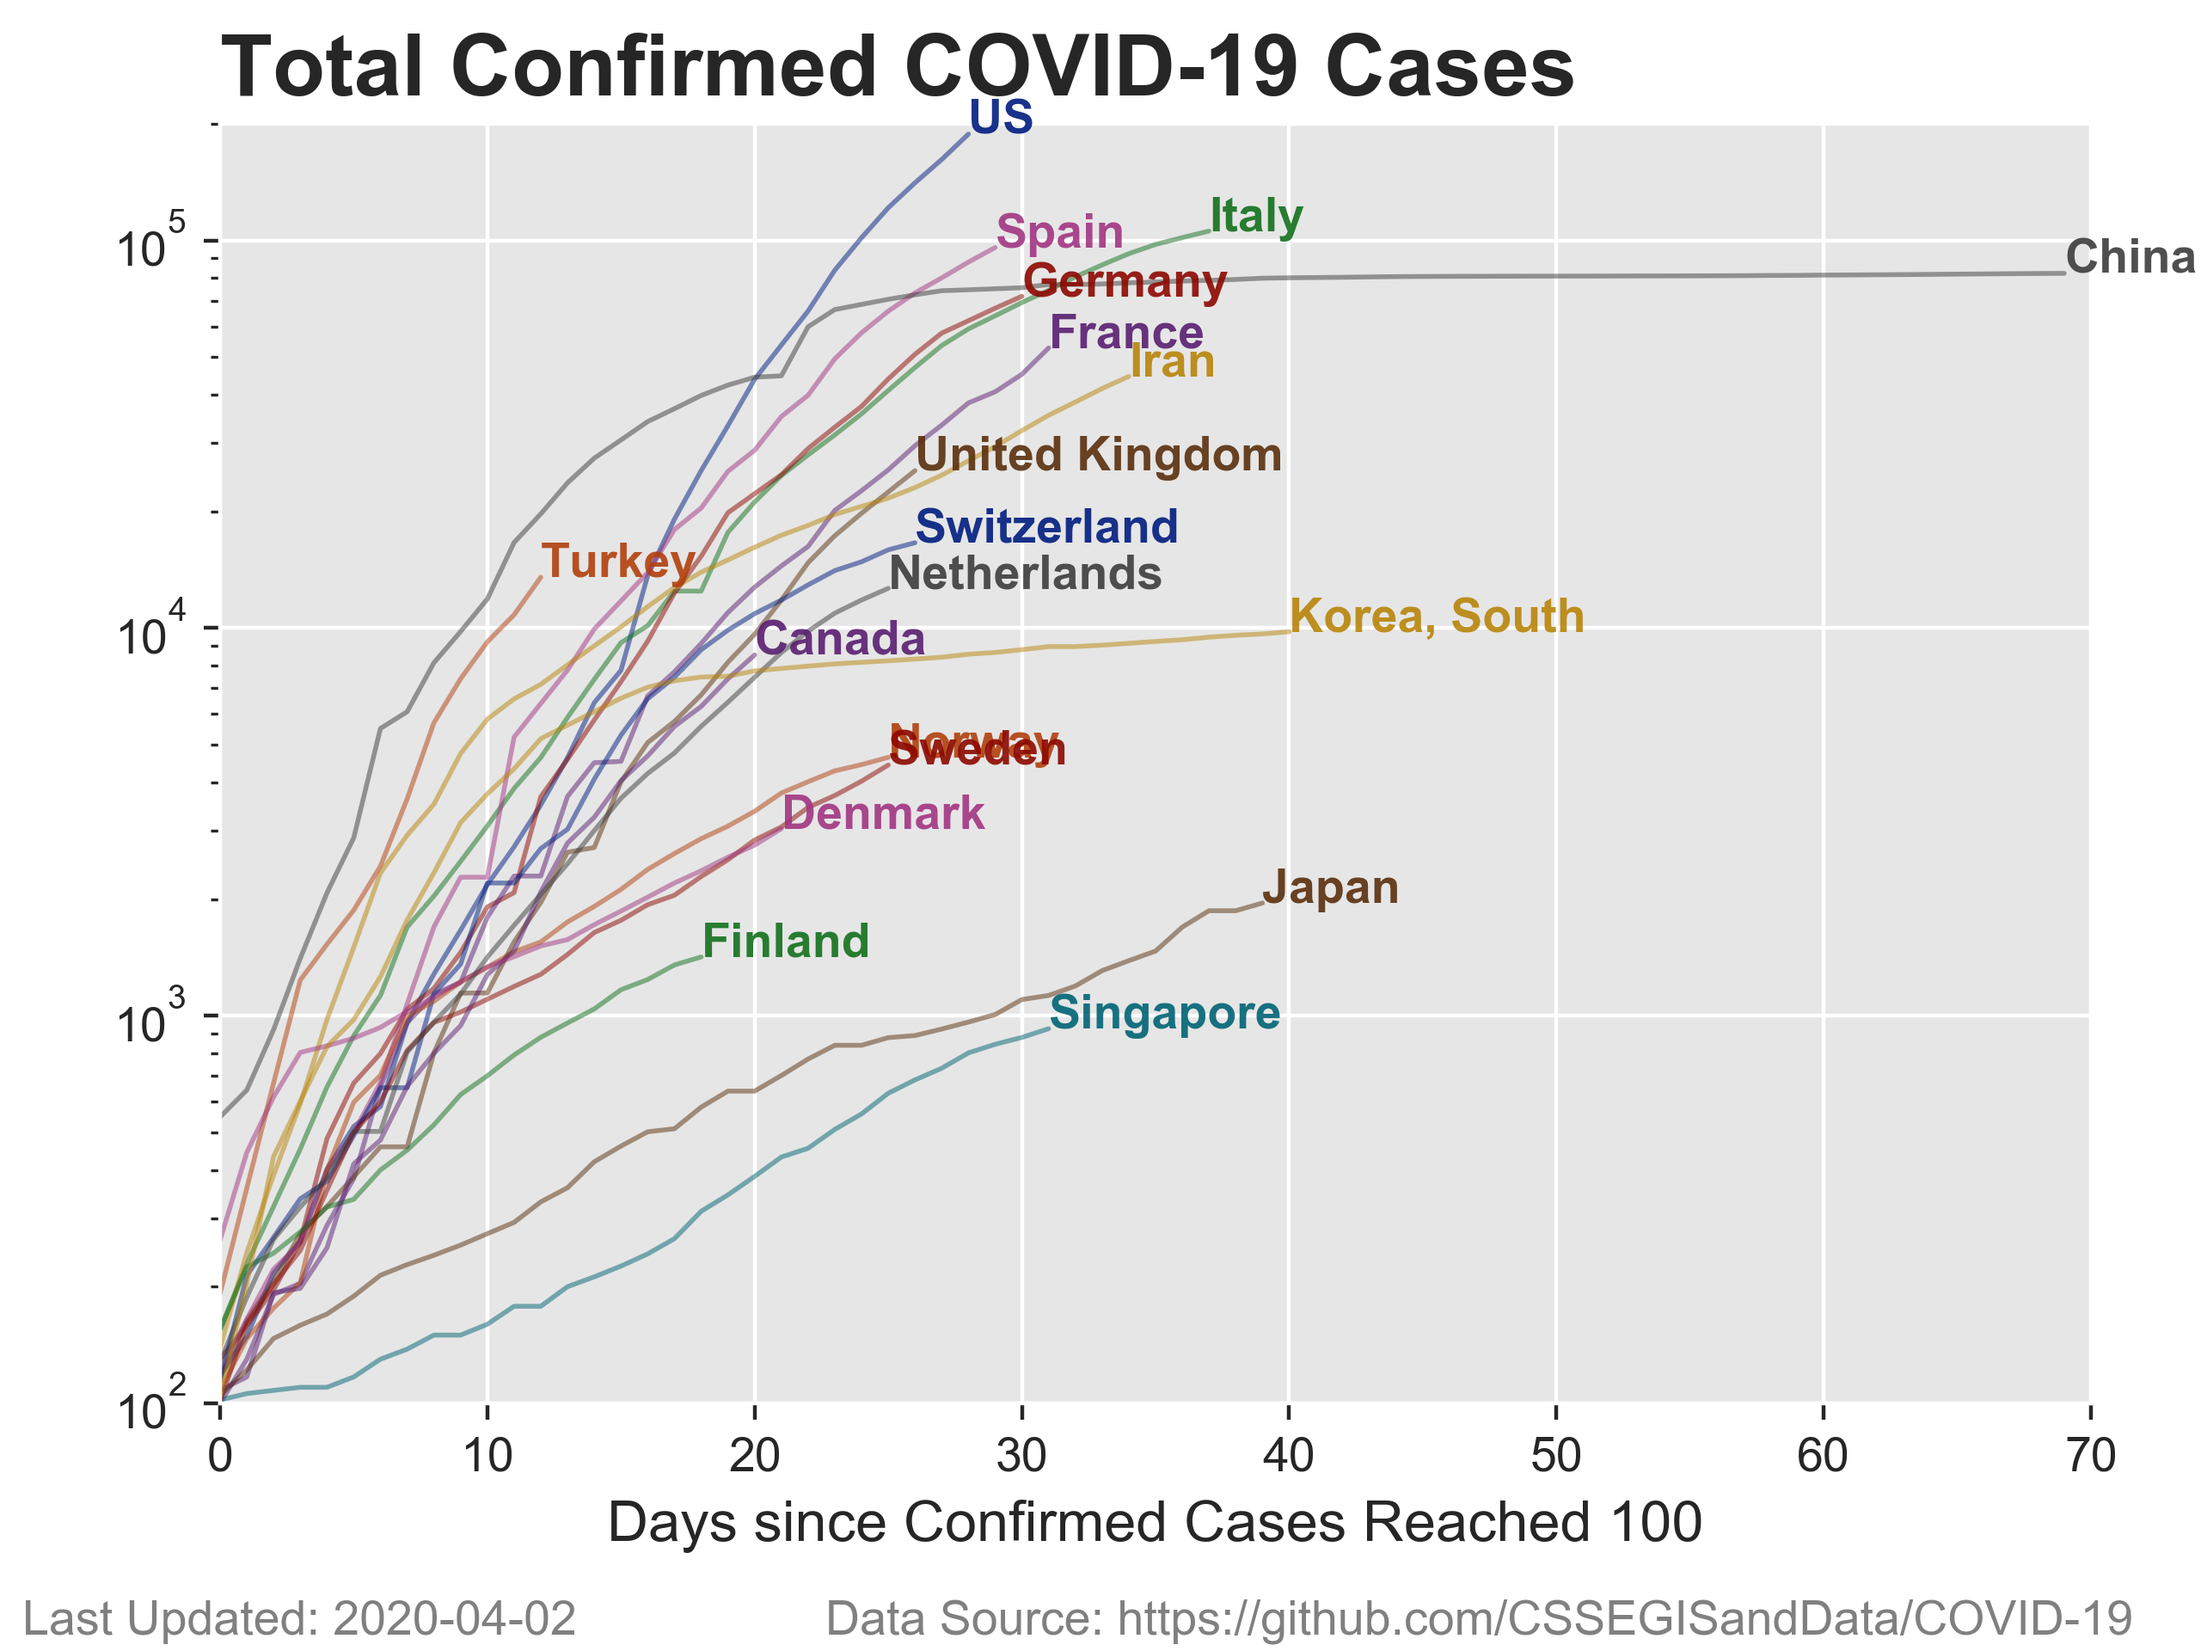
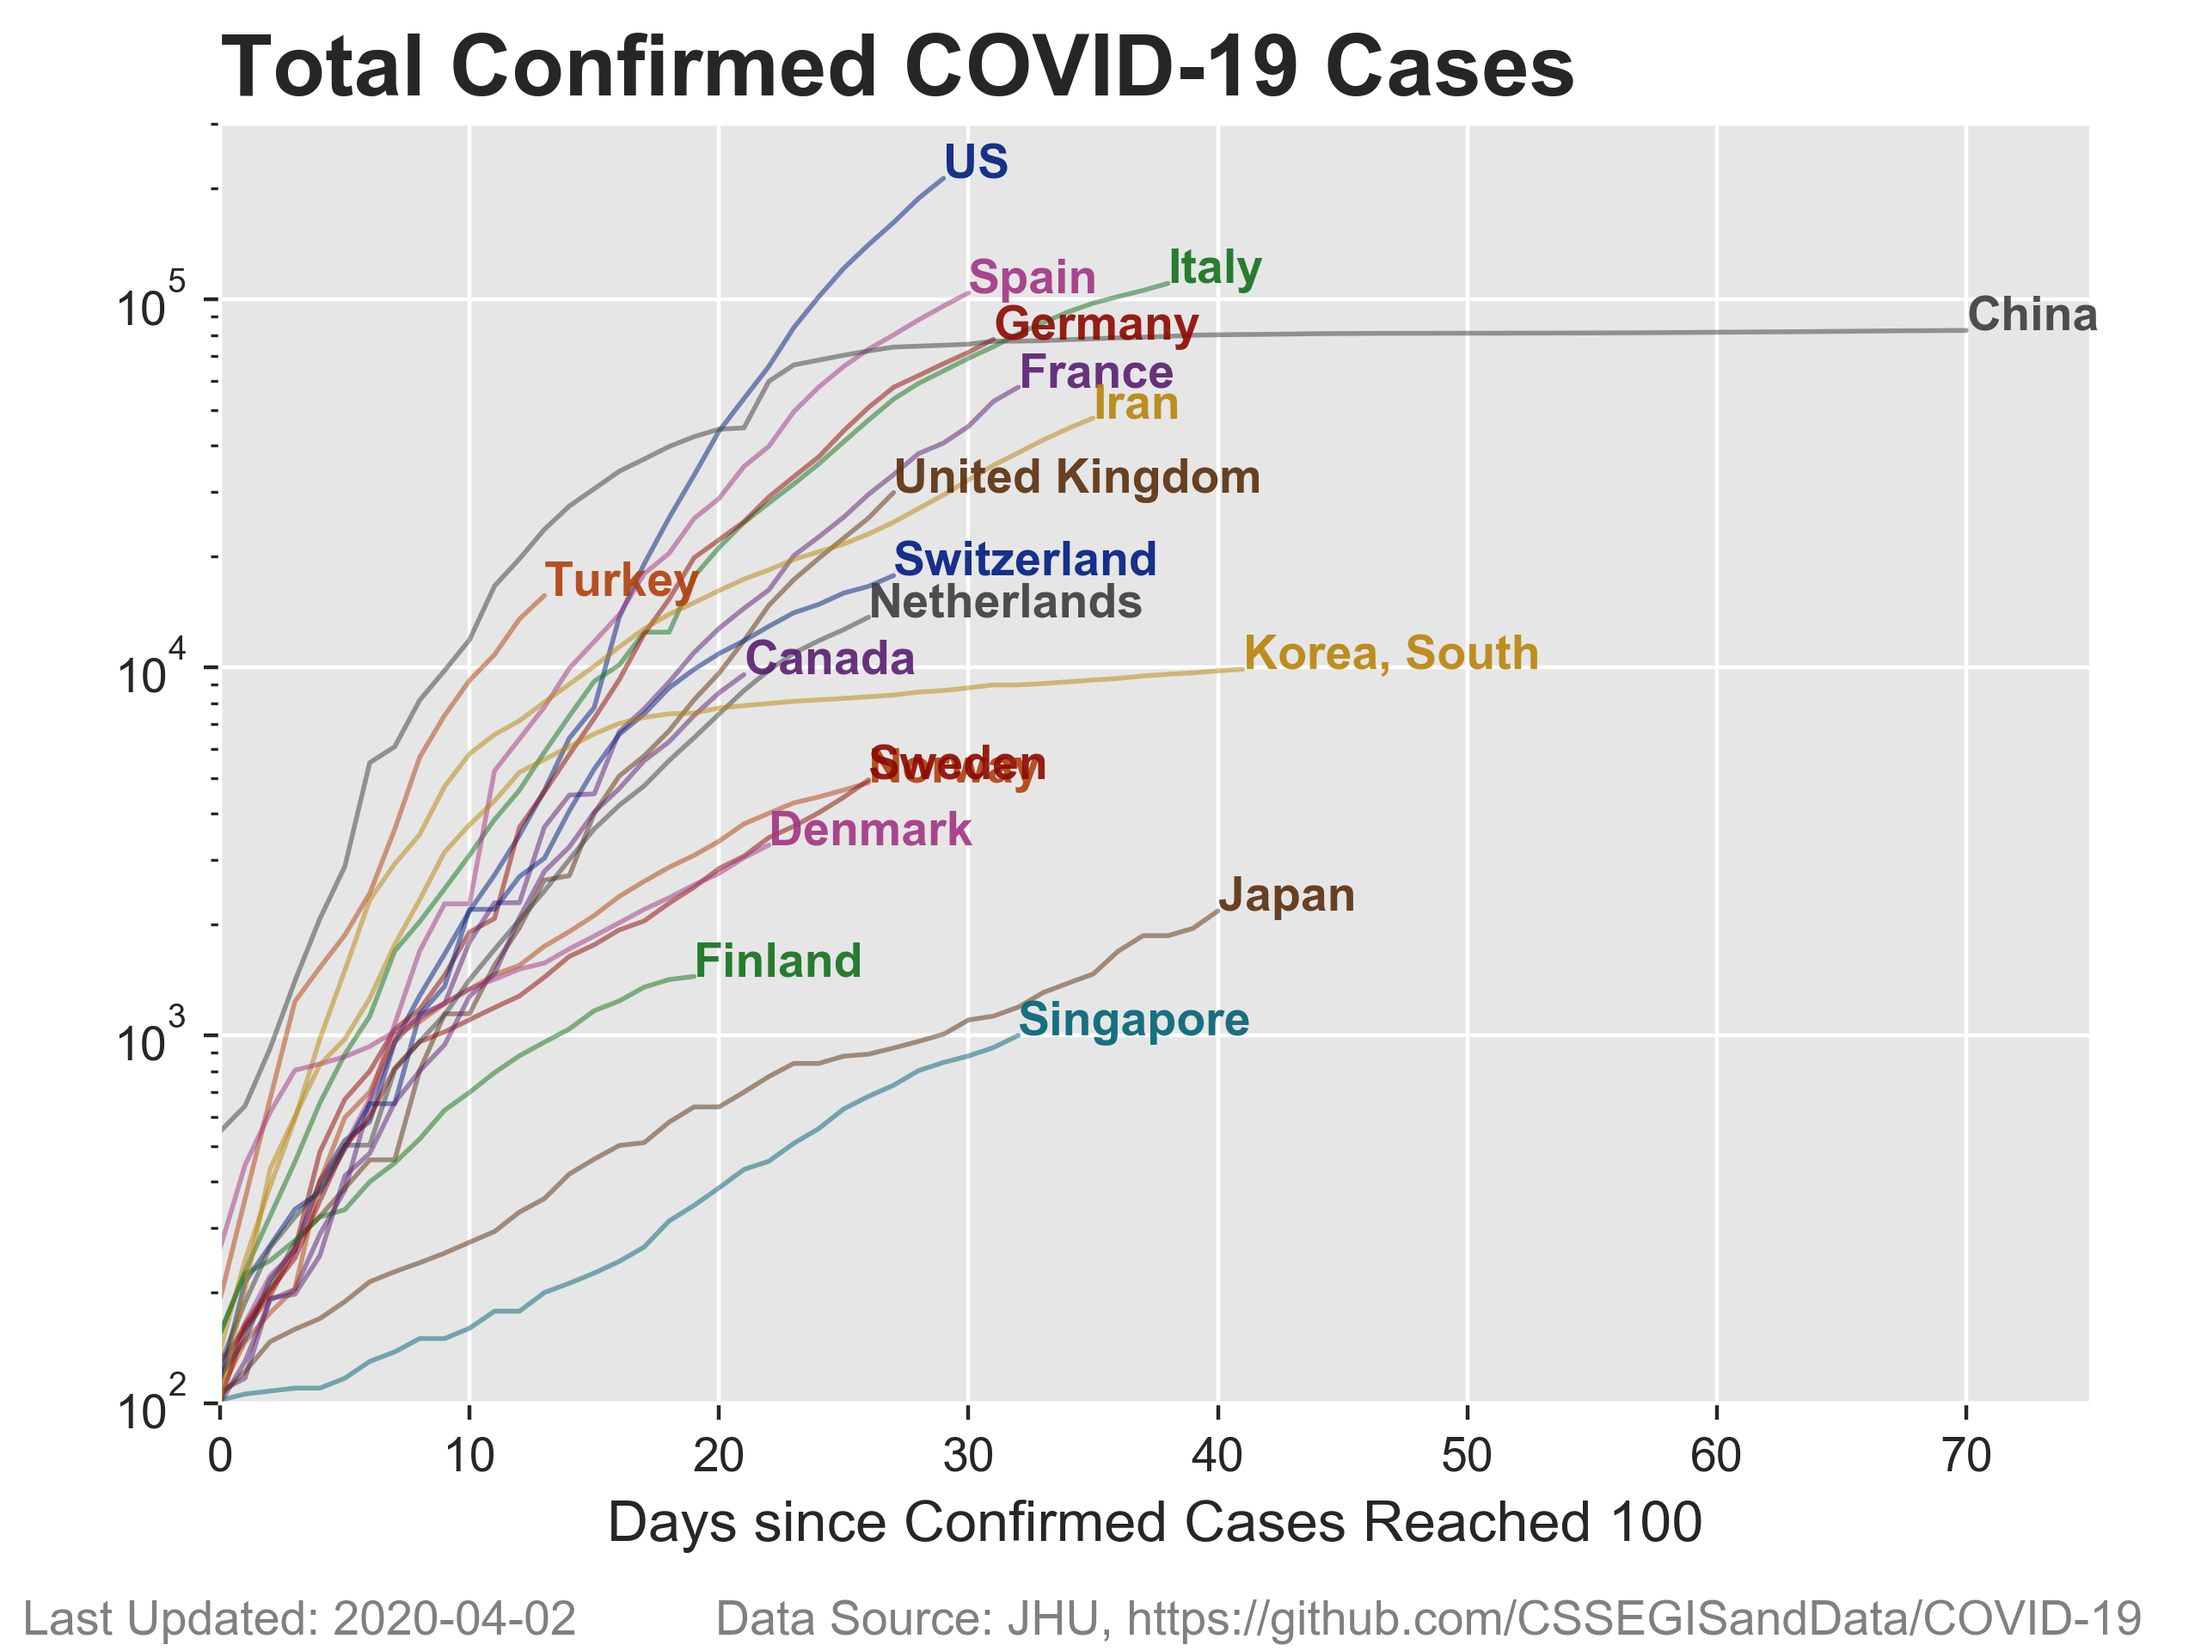
update
updated data and visuals

diff --git a/plotter_covid.py b/plotter_covid.py
@@ -54,6 +54,11 @@ df2 = death.T.groupby(['Country/Region']).sum().T
 death_df = df2[countries]
 death_df.index = pd.to_datetime(death_df.index)
 
+# new deaths
+death_new_df = death_df.copy()
+for i in range(len(confirmed_new_df.index)-1):
+	death_new_df.ix[-(i+1)]=death_new_df.ix[-(i+1)]-death_new_df.ix[-(i+2)]
+
 # recovered
 path = '/Users/msdogan/Documents/github/COVID-19/csse_covid_19_data/csse_covid_19_time_series/time_series_covid19_recovered_global.csv'
 recovered_df = pd.read_csv(path)
@@ -75,10 +80,10 @@ plt.title('Total Confirmed COVID-19 Cases', loc='left', fontweight='bold',fontsi
 ax.get_xaxis().tick_bottom()
 ax.get_yaxis().tick_left()
 plt.xlabel('Days since Confirmed Cases Reached 100',fontsize=12)
-plt.ylim([100,200000])
-plt.xlim([0,70])
+plt.ylim([100,300000])
+plt.xlim([0,75])
 plt.gcf().text(0.01, 0.01, 'Last Updated: '+str(datetime.date.today()),fontsize=10,color='grey')
-plt.gcf().text(0.375, 0.01, 'Data Source: '+source, fontsize=10,color='grey')
+plt.gcf().text(0.325, 0.01, 'Data Source: JHU, '+source,fontsize=10,color='grey')
 plt.subplots_adjust(left=0.1, bottom=0.15, right=0.95, top=0.925)
 plt.savefig('confirmed_trend.png',transparent=False,dpi=400)
 plt.close(fig)
@@ -94,18 +99,18 @@ def animate(i):
 	df_plot_italy = confirmed_df[confirmed_df['Italy'] >= 100]
 	plt.fill_between(np.arange(0,len(df_plot_italy['Italy'])),df_plot_italy['Italy'],color='blue',alpha=0.2,linewidth=2,label='Italy')
 	df_plot = confirmed_df[confirmed_df[item] >= 100]
-	plt.plot(np.arange(0,len(df_plot[item])),df_plot[item],color=color[i],alpha=0.5,linewidth=1,label=item)
+	plt.fill_between(np.arange(0,len(df_plot[item])),df_plot[item],color=color[i],alpha=0.4,linewidth=2,label=item)
 	plt.text(len(df_plot[item])-1,df_plot[item].iloc[-1],item,fontsize=10,color=color[i],alpha=0.9,fontweight='bold')
 	ax.set_yscale('log')
 	plt.title('Total Confirmed COVID-19 Cases', loc='left', fontweight='bold',fontsize=18)
 	ax.get_xaxis().tick_bottom()
 	ax.get_yaxis().tick_left()
 	plt.xlabel('Days since Confirmed Cases Reached 100',fontsize=12)
-	plt.ylim([100,200000])
+	plt.ylim([100,300000])
 	plt.legend(loc=2)
 	plt.xlim([0,len(df_plot_italy['Italy'])])
 	plt.gcf().text(0.01, 0.01, 'Last Updated: '+str(datetime.date.today()),fontsize=10,color='grey')
-	plt.gcf().text(0.35, 0.01, 'Data Source: '+source, fontsize=10,color='grey')
+	plt.gcf().text(0.3, 0.01, 'Data Source: JHU, '+source,fontsize=10,color='grey')
 	plt.subplots_adjust(left=0.1, bottom=0.15, right=0.95, top=0.925)
 	return None
 
@@ -116,14 +121,14 @@ anim.save('confirmed.gif', writer='imagemagick')
 fig = plt.figure(); ax = plt.gca()
 confirmed_df.plot(
 	logy=True,
-	ax=ax,alpha=0.5,ylim=[1,200000],color=color,legend=False,linewidth=1)
+	ax=ax,alpha=0.5,ylim=[1,300000],color=color,legend=False,linewidth=1)
 plt.title('Total Confirmed COVID-19 Cases', loc='left', fontweight='bold',fontsize=18)
 ax.get_xaxis().tick_bottom()
 ax.get_yaxis().tick_left()
 for i,item in enumerate(confirmed_df.keys()):
 	plt.text(confirmed_df.index[-1],confirmed_df[item].iloc[-1],item,fontsize=8,color=color[i],alpha=0.9)
 plt.gcf().text(0.01, 0.01, 'Last Updated: '+str(datetime.date.today()),fontsize=10,color='grey')
-plt.gcf().text(0.375, 0.01, 'Data Source: '+source,fontsize=10,color='grey')
+plt.gcf().text(0.325, 0.01, 'Data Source: JHU, '+source,fontsize=10,color='grey')
 plt.subplots_adjust(left=0.125, bottom=0.175, right=0.85, top=0.925)
 plt.savefig('confirmed.png',transparent=False,dpi=400)
 plt.close(fig)
@@ -136,10 +141,10 @@ confirmed_new_df.plot(
 plt.title('Confirmed New COVID-19 Cases', loc='left', fontweight='bold',fontsize=18)
 ax.get_xaxis().tick_bottom()
 ax.get_yaxis().tick_left()
-for i,item in enumerate(confirmed_df.keys()):
+for i,item in enumerate(confirmed_new_df.keys()):
 	plt.text(confirmed_new_df.index[-1],confirmed_new_df[item].iloc[-1],item,fontsize=8,color=color[i],alpha=0.9)
 plt.gcf().text(0.01, 0.01, 'Last Updated: '+str(datetime.date.today()),fontsize=10,color='grey')
-plt.gcf().text(0.375, 0.01, 'Data Source: '+source,fontsize=10,color='grey')
+plt.gcf().text(0.325, 0.01, 'Data Source: JHU, '+source,fontsize=10,color='grey')
 plt.subplots_adjust(left=0.125, bottom=0.175, right=0.85, top=0.925)
 plt.savefig('confirmed_new.png',transparent=False,dpi=400)
 plt.close(fig)
@@ -148,16 +153,32 @@ plt.close(fig)
 fig = plt.figure(); ax = plt.gca()
 death_df.plot(
 	logy=True,
-	ax=ax,alpha=0.5,ylim=[1,13000],xlim=[death_df.index[0],death_df.index[-1]],color=color,legend=False,linewidth=1)
+	ax=ax,alpha=0.5,ylim=[1,20000],xlim=[death_df.index[0],death_df.index[-1]],color=color,legend=False,linewidth=1)
 plt.title('Total Number of COVID-19 Deaths', loc='left', fontweight='bold',fontsize=18)
 ax.get_xaxis().tick_bottom()
 ax.get_yaxis().tick_left()
 for i,item in enumerate(death_df.keys()):
 	plt.text(death_df.index[-1],death_df[item].iloc[-1],item,fontsize=8,color=color[i],alpha=0.9)
 plt.gcf().text(0.01, 0.01, 'Last Updated: '+str(datetime.date.today()),fontsize=10,color='grey')
-plt.gcf().text(0.375, 0.01, 'Data Source: '+source, fontsize=10,color='grey')
+plt.gcf().text(0.325, 0.01, 'Data Source: JHU, '+source,fontsize=10,color='grey')
 plt.subplots_adjust(left=0.125, bottom=0.175, right=0.85, top=0.925)
 plt.savefig('death.png',transparent=False,dpi=400)
+plt.close(fig)
+
+# new death plot
+fig = plt.figure(); ax = plt.gca()
+death_new_df.plot(
+	# logy=True,
+	ax=ax,alpha=0.5,ylim=[1,1000],color=color,legend=False,linewidth=1)
+plt.title('New COVID-19 Fatalities', loc='left', fontweight='bold',fontsize=18)
+ax.get_xaxis().tick_bottom()
+ax.get_yaxis().tick_left()
+for i,item in enumerate(death_new_df.keys()):
+	plt.text(death_new_df.index[-1],death_new_df[item].iloc[-1],item,fontsize=8,color=color[i],alpha=0.9)
+plt.gcf().text(0.01, 0.01, 'Last Updated: '+str(datetime.date.today()),fontsize=10,color='grey')
+plt.gcf().text(0.325, 0.01, 'Data Source: JHU, '+source,fontsize=10,color='grey')
+plt.subplots_adjust(left=0.125, bottom=0.175, right=0.85, top=0.925)
+plt.savefig('death_new.png',transparent=False,dpi=400)
 plt.close(fig)
 
 # recovered plot
@@ -171,7 +192,7 @@ ax.get_yaxis().tick_left()
 for i,item in enumerate(recovered_df.keys()):
 	plt.text(recovered_df.index[-1],recovered_df[item].iloc[-1],item,fontsize=8,color=color[i],alpha=0.9)
 plt.gcf().text(0.01, 0.01, 'Last Updated: '+str(datetime.date.today()),fontsize=10,color='grey')
-plt.gcf().text(0.375, 0.01, 'Data Source: '+source,fontsize=10,color='grey')
+plt.gcf().text(0.325, 0.01, 'Data Source: JHU, '+source,fontsize=10,color='grey')
 plt.subplots_adjust(left=0.125, bottom=0.175, right=0.85, top=0.925)
 plt.savefig('recovered.png',transparent=False,dpi=400)
 plt.close(fig)
@@ -189,7 +210,7 @@ plt.title('COVID-19 Mortality Rate (%)', loc='left', fontweight='bold',fontsize=
 ax.get_xaxis().tick_bottom()
 ax.get_yaxis().tick_left()
 plt.gcf().text(0.01, 0.01, 'Last Updated: '+str(datetime.date.today()),fontsize=10,color='grey')
-plt.gcf().text(0.375, 0.01, 'Data Source: '+source, fontsize=10,color='grey')
+plt.gcf().text(0.325, 0.01, 'Data Source: JHU, '+source,fontsize=10,color='grey')
 plt.xlim([0,12])
 plt.xlabel('(# of Deaths / Confirmed Cases) * 100')
 plt.subplots_adjust(left=0.175, bottom=0.15, right=0.925, top=0.925)
